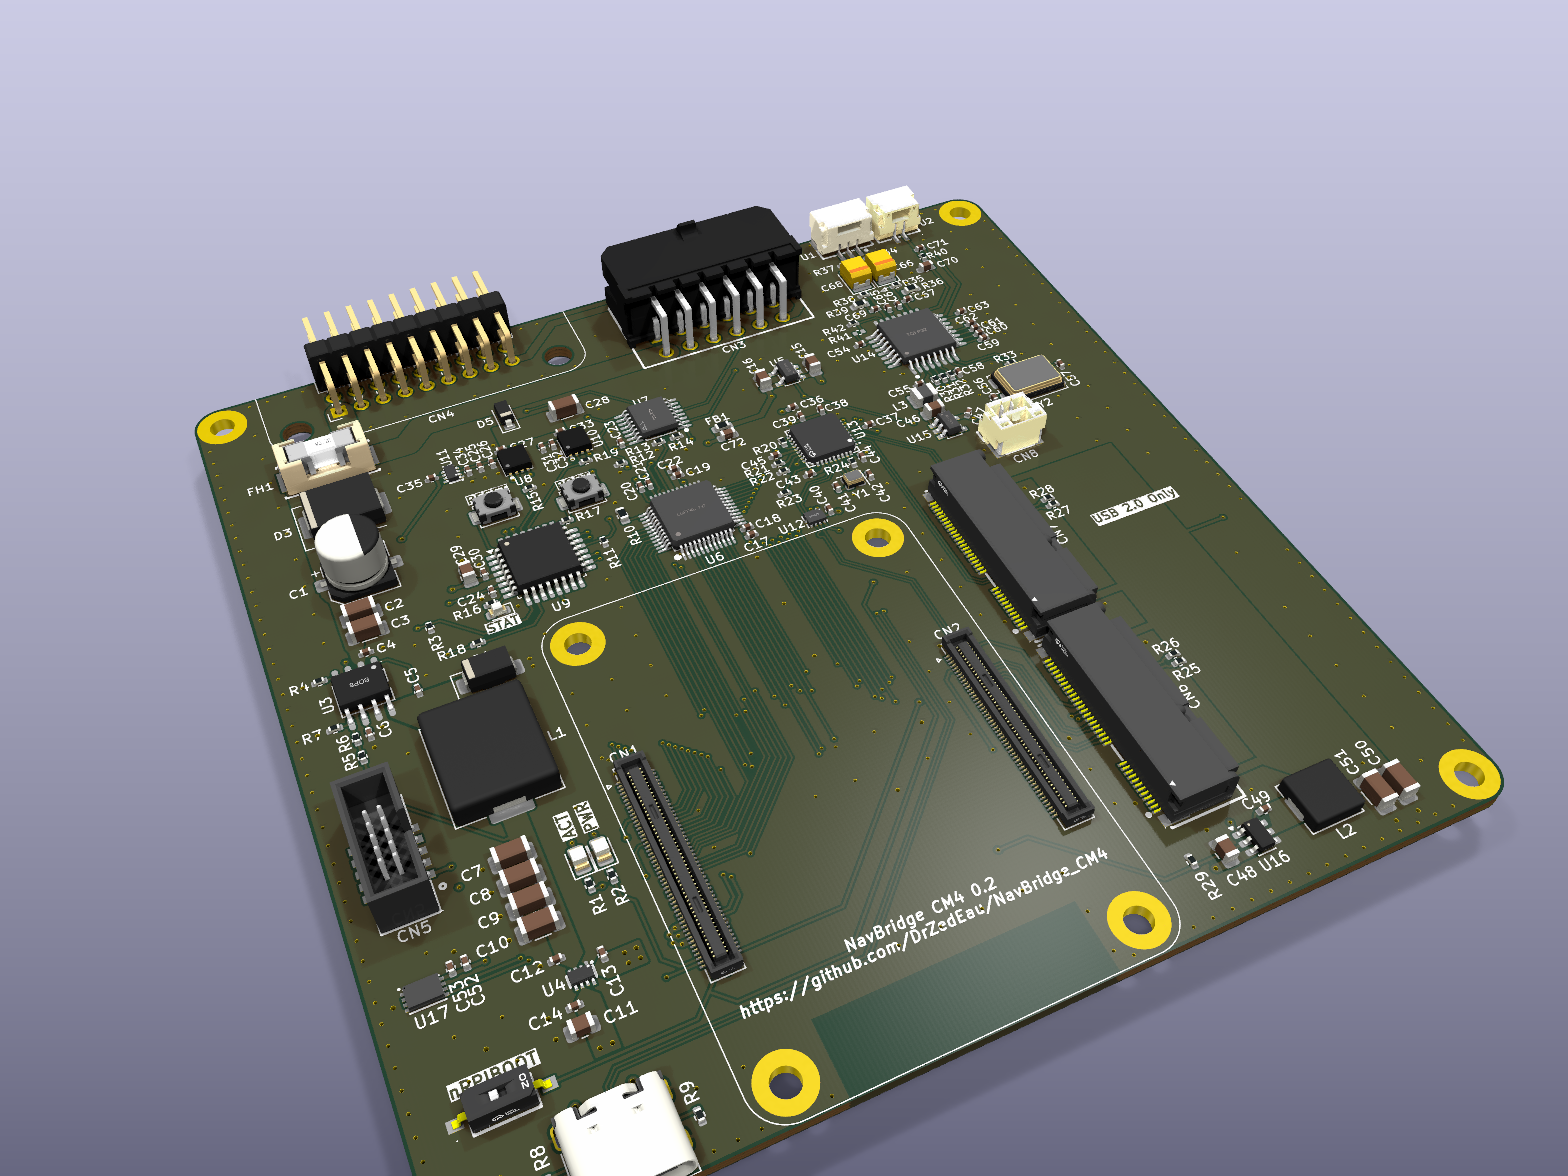
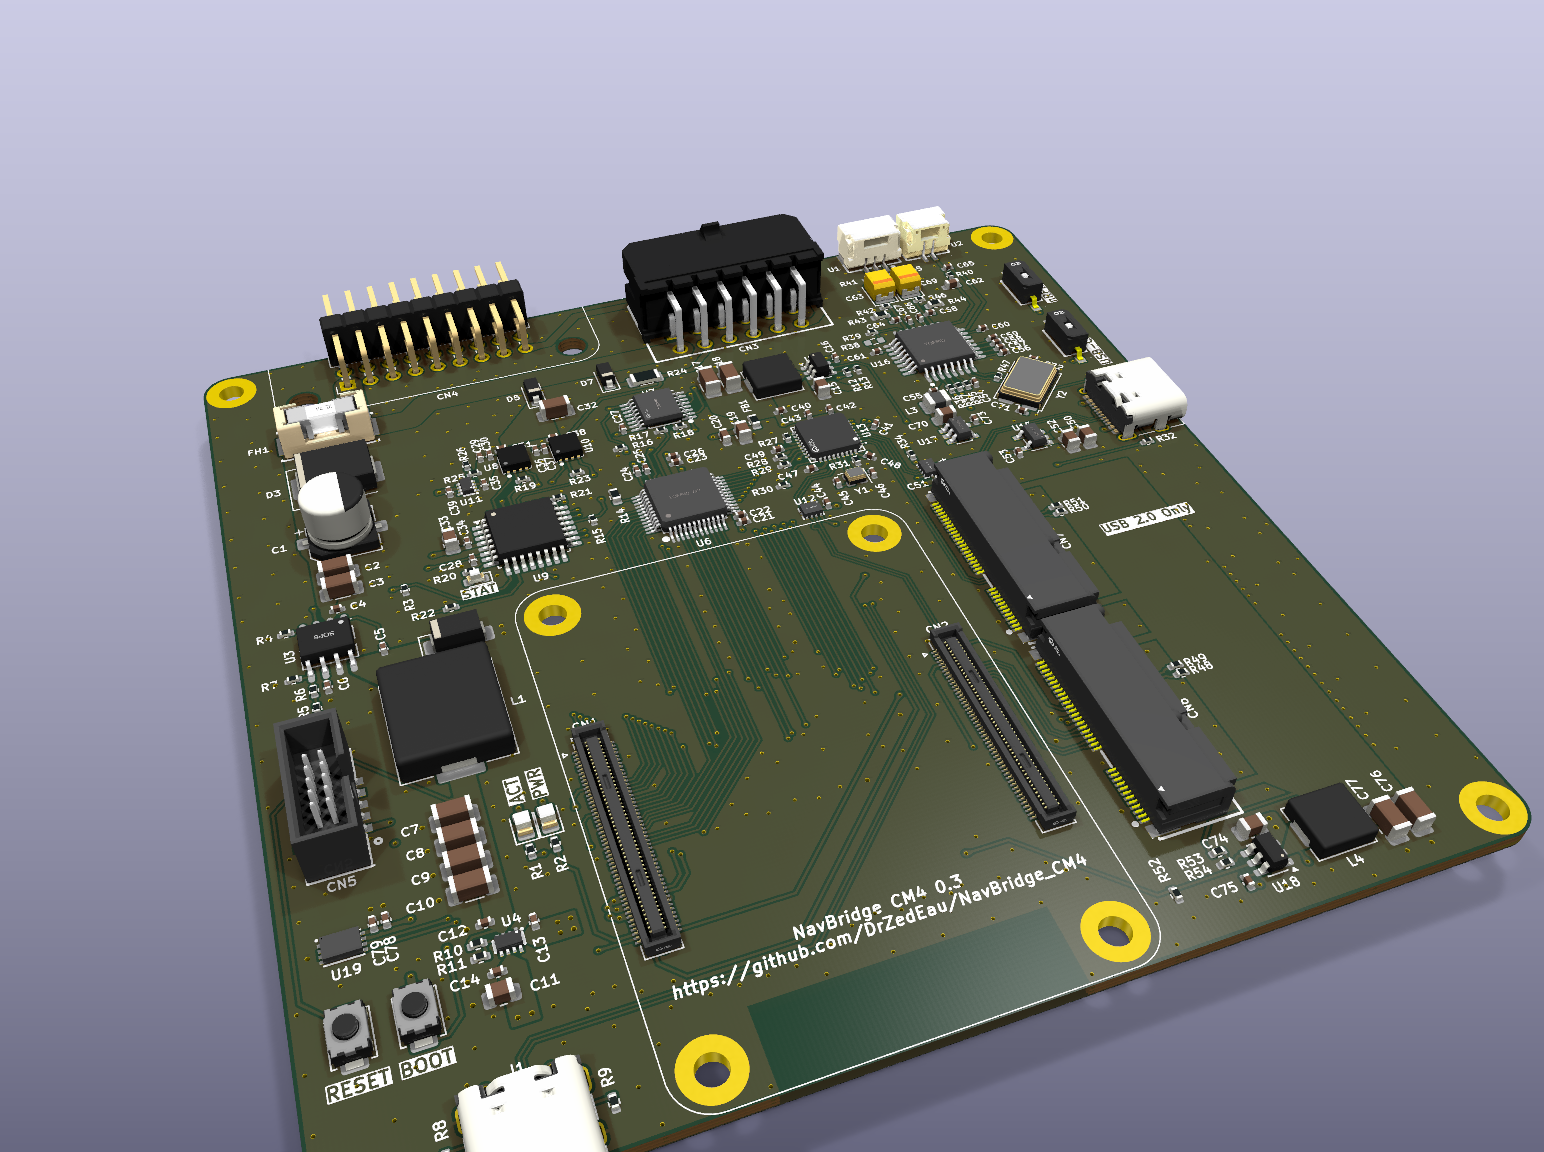
update README and images to match with version 0.3 of the board

diff --git a/README.md b/README.md
@@ -24,6 +24,7 @@ The board interfaces directly with the factory navigation module and provides:
 - Microphone input
 - Integration with the BMW I-Bus for power management and button control
 - Two M.2 Key E expansion slots
+- A USB-C host port for low-power USB devices
 - A CSI camera connector
 - An Apple MFi authentication coprocessor
 
@@ -39,19 +40,20 @@ The hardware is designed to run [NavBridge App](https://github.com/DrZedEau/NavB
 - Raspberry Pi CM4 / CM5 connectors (2 × 100-pin Hirose DF40C)
 - Automotive-grade 5 V / 3.5 A buck converter (**LMR14030-Q1**), switched on and off by the MCU
 - Fused battery input with a **SMCJ24A** TVS diode
-- USB-C port for Raspberry Pi flashing (rpiboot) and bench power, with automatic selection between USB-C and the car supply (**TPS2117**)
-- 4-port USB 2.0 hub (**USB2514B**) for the MCU, the audio codec and both M.2 slots
+- USB-C port (J1) for Raspberry Pi flashing (rpiboot) and bench power, with automatic selection between USB-C and the car supply (**TPS2117**)
+- 3.3 V / 2 A buck converter (**TPS54202**) for the USB hub, the USB switches and the video DAC
+- 4-port USB 2.0 hub (**USB2514B**) for the MCU, the audio codec, M.2 slot CN7, and either M.2 slot CN6 or the USB-C host port
+- USB-C host port (J2), USB 2.0, 500 mA (**TPS2051B**), sharing a hub port with M.2 slot CN6 through a **TS3USB221** switch (SW4)
 - 24-bit video DAC (**ADV7125**) fed by the Raspberry Pi DPI output
 - Analog RGB switch (**TMUX1574**) to select the factory navigation picture or the Raspberry Pi picture
 - Integrated **PCM2912A** USB audio codec
   - Stereo line output
   - Mono microphone input with bias
-- Two M.2 Key E slots, powered by a dedicated 3.3 V / 2 A buck converter (**AP63203**)
-  - CN6: PCIe x1 + USB 2.0
+- Two M.2 Key E slots, powered by a dedicated 3.3 V / 2 A buck converter (**TPS54202**)
+  - CN6: PCIe x1 + USB 2.0 (the USB is shared with the USB-C host port)
   - CN7: USB 2.0 only
 - 22-pin CSI camera connector (CAM1, 2 lanes) on the bottom side
 - Apple **MFi343S00177** authentication coprocessor on I²C
-- Auxiliary 5 V output connector
 - SWD connector for the STM32
 
 The board has no SD card slot, so it needs a Compute Module with eMMC (not a Lite module).
@@ -59,6 +61,7 @@ The board has no SD card slot, so it needs a Compute Module with eMMC (not a Lit
 ### Vehicle Integration
 
 - Two **ATA663231** LIN transceivers: one on the car I-Bus, one on the navigation module's I-Bus, with the MCU in between
+- LIN master termination (1 kΩ + diode) on the navigation-side I-Bus, since the board is the only master on that segment
 - **STM32C071** microcontroller for:
   - Raspberry Pi power management
   - OEM button translation
@@ -89,11 +92,11 @@ The board has no SD card slot, so it needs a Compute Module with eMMC (not a Lit
 | CN5 | 2 × 5 pin header, 1.27 mm | STM32 SWD |
 | CN6 | M.2 Key E | PCIe x1 + USB 2.0 module |
 | CN7 | M.2 Key E | USB 2.0 module |
-| CN8 | JST GH, 2 pins | Auxiliary +5 V output |
 | U1 | JST GH, 3 pins | Stereo line output |
 | U2 | JST GH, 2 pins | Microphone input |
-| U18 | 22-pin FPC, 0.5 mm (bottom side) | CSI camera (CAM1) |
+| U20 | 22-pin FPC, 0.5 mm (bottom side) | CSI camera (CAM1) |
 | J1 | USB-C | Raspberry Pi flashing and bench power |
+| J2 | USB-C | USB 2.0 host port, 500 mA |
 
 #### CN4 – Car harness
 
@@ -128,13 +131,13 @@ The board has no SD card slot, so it needs a Compute Module with eMMC (not a Lit
 |---|---|---|---|
 | U2 (microphone) | MIC in | GND | |
 | U1 (line out) | Left | GND | Right |
-| CN8 (aux power) | +5 V | GND | |
 
 ### Buttons and LEDs
 
 | Silkscreen | Part | Function |
 |---|---|---|
-| nRPIBOOT | SW1 (slide switch) | Pulls the CM `nRPIBOOT` low and routes the CM USB port to the USB-C connector, for flashing with rpiboot |
+| nRPIBOOT | SW1 (slide switch) | Pulls the CM `nRPIBOOT` low and routes the CM USB port to the USB-C connector J1, for flashing with rpiboot |
+| CN6 / USB-C | SW4 (slide switch) | Connects hub port 2 to M.2 slot CN6 (ON) or to the USB-C host port J2 (OFF) |
 | RESET | SW2 | STM32 reset |
 | BOOT | SW3 | STM32 BOOT0, to start the USB DFU bootloader |
 | PWR | D2 (red) | CM power LED |
@@ -146,20 +149,25 @@ The board has no SD card slot, so it needs a Compute Module with eMMC (not a Lit
 ```text
 +BATT ─┬─ fuse ─ TVS ─ LMR14030 5 V buck (enabled by MCU) ─┐
        │                                                   ├─ TPS2117 ─ +5 V ─ CM and peripherals
-       │                                 USB-C 5 V ────────┘
+       │                            USB-C (J1) 5 V ────────┘
        │
-       └─ diode ─ ATA663231 (car I-Bus) ─ 3.3 V ─┐
-                                                 ├─ TPS2117 ─ 3.3 V ─ STM32, RGB switch
-                          CM 3.3 V output ───────┘
+       ├─ diode ─ ATA663231 (car I-Bus) ─ 3.3 V ─┐
+       │                                         ├─ TPS2117 ─ 3.3 V ─ STM32, RGB switch
+       │                  CM 3.3 V output ───────┘
+       │
+       └─ diode ─ 1 kΩ ─ navigation I-Bus (LIN master termination)
 
-+5 V ─ TLV75533 LDO ─ 3.3 V ─ USB hub, USB switch, video DAC (through a ferrite bead)
-+5 V ─ AP63203 buck ─ 3.3 V ─ M.2 slots, camera
++5 V ─ TPS54202 buck ─ 3.3 V ─ USB hub, USB switches, video DAC (through a ferrite bead)
++5 V ─ TPS54202 buck ─ 3.3 V ─ M.2 slots, camera
 +5 V ─ TPS2051B switch ─ PCM2912A audio codec
++5 V ─ TPS2051B switch (500 mA) ─ USB-C host port (J2)
 ```
+
+The two TPS54202 converters and the two TPS2051B switches are enabled by the CM 3.3 V output, so they only run while the Compute Module is on.
 
 The battery fuse holder (FH1) takes a Littelfuse 0451003.MRL (3 A) fuse, fitted by hand after assembly.
 
-The TPS2117 selects between the car supply and USB-C automatically, so the board can be powered on the bench from USB-C alone.
+The TPS2117 selects between the car supply and USB-C automatically, so the board can be powered on the bench from USB-C alone. A divider on its `PR1` pin makes it switch to the car supply only once the buck output is above about 4.3 V, not while the buck is still starting up. The MCU's TPS2117 does the same with the LIN regulator, above about 2.5 V.
 
 ### Video
 
@@ -169,10 +177,16 @@ The **TMUX1574** switch, controlled by the STM32, selects which picture reaches 
 
 ### USB
 
-The CM USB 2.0 port goes through a **TS3USB221** switch controlled by the nRPIBOOT switch:
+The CM USB 2.0 port goes through a **TS3USB221** switch controlled by the nRPIBOOT switch (SW1):
 
-- **nRPIBOOT off** (normal use): CM → **USB2514B** hub → STM32, PCM2912A codec, M.2 slot CN6, M.2 slot CN7
-- **nRPIBOOT on**: CM → USB-C connector, to flash the eMMC with rpiboot
+- **nRPIBOOT off** (normal use): CM → **USB2514B** hub:
+  - port 1: M.2 slot CN7
+  - port 2: M.2 slot CN6 or the USB-C host port (J2), through a second **TS3USB221** set by the CN6 / USB-C switch (SW4)
+  - port 3: PCM2912A audio codec
+  - port 4: STM32
+- **nRPIBOOT on**: CM → USB-C connector (J1), to flash the eMMC with rpiboot
+
+The USB-C host port (J2) supplies up to 500 mA through a **TPS2051B** current-limited switch and advertises default USB power (56 kΩ pull-ups on CC1/CC2). It is powered while the Compute Module is on and is meant for low-power devices, such as an analog video converter. When it is selected, M.2 slot CN6 has no USB, only PCIe.
 
 ---
 
@@ -202,7 +216,7 @@ Then reboot. The script writes `config.txt` for the board's display and I²C, se
 ## Repository Structure
 
 ```text
-hardware/      KiCad project (revision 0.2) and the revision 0.1 archive
+hardware/      KiCad project (revision 0.3)
 firmware/      STM32C071 MCU firmware
 scripts/       Raspberry Pi setup script
 3D/            STL files for printed parts (case and connector)
@@ -215,10 +229,11 @@ The KiCad project in [hardware/](hardware/) was made with KiCad 10 and includes 
 
 ## Project Status
 
-Revision 0.2 is the current revision of the CM4 board. Revision 0.1 is kept as an archive in [hardware/](hardware/).
+Revision 0.3 is the current design. It adds the USB-C host port and fixes the issues found on the revision 0.2 prototypes, which work in the car with the I-Bus bodge described in [hardware/README.md](hardware/README.md#known-issues-on-revision-02). See [Revision history](hardware/README.md#revision-history) for the changes. Earlier revisions are in the git history.
 
-- [x] Schematic and PCB layout
-- [ ] Prototype testing
+- [x] Schematic and PCB layout (revision 0.3)
+- [x] Revision 0.2 prototypes built and tested in the car
+- [ ] Revision 0.3 prototypes
 - [ ] STM32 firmware: first version in [firmware/](firmware/) (I-Bus bridge, Pi power, video source, CSYNC, USB bootloader), being tested on the prototype
 - [ ] Raspberry Pi setup script: first version in [scripts/](scripts/) (`config.txt`, `cmdline.txt`, splash screen, packages, I²C, Bluetooth)
 - [ ] 3D printed case and connector
@@ -227,7 +242,7 @@ Revision 0.2 is the current revision of the CM4 board. Revision 0.1 is kept as a
 
 ## Roadmap
 
-- Test the first prototypes in the car
+- Build and test the revision 0.3 prototypes
 - Test with a CM5
 - Expand compatibility testing across additional BMW platforms
 
